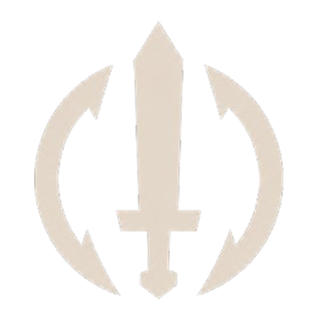
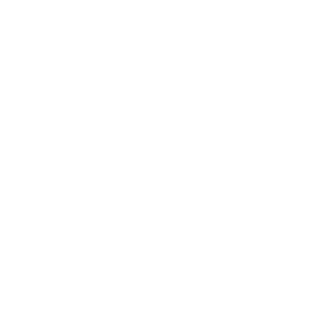
feat(lol): add assist timeline markers

Changed region(s): [[0.3438, 0.0625, 0.625, 0.9375], [0.625, 0.1875, 0.9062, 0.9375], [0.0938, 0.1875, 0.375, 0.9375]]

diff --git a/apps/clipline-app/ui/review-player.js b/apps/clipline-app/ui/review-player.js
@@ -590,6 +590,7 @@ function renderOverviewMarkers() {
 // untouched. Each draws in currentColor so the category tint (--mc) colors it.
 const MARKER_ICONS = {
   ChampionKill: `<svg viewBox="0 0 24 24" fill="none" stroke="currentColor" stroke-width="1.7" stroke-linecap="round" stroke-linejoin="round"><path d="M4.5 4.5 19.5 19.5M19.5 4.5 4.5 19.5"/><path d="M13 16 16 13M8 13 11 16"/><circle cx="19.5" cy="19.5" r="1.15" fill="currentColor" stroke="none"/><circle cx="4.5" cy="19.5" r="1.15" fill="currentColor" stroke="none"/></svg>`,
+  ChampionAssist: `<svg viewBox="0 0 24 24" fill="none" stroke="currentColor" stroke-width="1.8" stroke-linecap="round" stroke-linejoin="round"><path d="M12 5 12 19M5 12 19 12"/></svg>`,
   ChampionDeath: `<svg viewBox="0 0 24 24" fill="none" stroke="currentColor" stroke-width="1.6" stroke-linejoin="round"><path d="M12 3.5C7.6 3.5 5 6.7 5 10.5C5 12.8 6 14.4 7.2 15.5C7.6 15.9 7.8 16.3 7.8 16.8L7.8 18.5A1 1 0 0 0 8.8 19.5L15.2 19.5A1 1 0 0 0 16.2 18.5L16.2 16.8C16.2 16.3 16.4 15.9 16.8 15.5C18 14.4 19 12.8 19 10.5C19 6.7 16.4 3.5 12 3.5Z"/><circle cx="9.4" cy="11" r="1.4" fill="currentColor" stroke="none"/><circle cx="14.6" cy="11" r="1.4" fill="currentColor" stroke="none"/></svg>`,
   FirstBlood: `<svg viewBox="0 0 24 24" fill="none" stroke="currentColor" stroke-width="1.7" stroke-linejoin="round"><path d="M12 3.5C12 3.5 18.5 11 18.5 15.5A6.5 6.5 0 1 1 5.5 15.5C5.5 11 12 3.5 12 3.5Z"/></svg>`,
   Multikill: `<svg viewBox="0 0 24 24" fill="none" stroke="currentColor" stroke-width="1.5" stroke-linejoin="round"><path d="M6 11.5A6 6 0 0 1 18 11.5L18 14.5A1.4 1.4 0 0 1 16.6 15.9L16 15.9 16 18.5 8 18.5 8 15.9 7.4 15.9A1.4 1.4 0 0 1 6 14.5Z"/><circle cx="9.6" cy="12.2" r="1.5" fill="currentColor" stroke="none"/><circle cx="14.4" cy="12.2" r="1.5" fill="currentColor" stroke="none"/></svg>`,
@@ -608,6 +609,7 @@ const MARKER_ICONS = {
 // Unknown / future kinds fall back to a representative glyph for their category.
 const MARKER_ICON_FALLBACK = {
   kill: MARKER_ICONS.ChampionKill,
+  assist: MARKER_ICONS.ChampionAssist,
   spree: MARKER_ICONS.Ace,
   objective: MARKER_ICONS.BaronKill,
   structure: MARKER_ICONS.TurretKilled,
@@ -618,6 +620,7 @@ const MARKER_ICON_FALLBACK = {
 // its category color (--mc); kinds without art fall back to the SVGs above.
 const MARKER_IMAGES = {
   ChampionKill: "assets/markers/kill.png",
+  ChampionAssist: "assets/markers/assist.png",
   ChampionDeath: "assets/markers/death.png",
   DragonKill: "assets/markers/dragon.png",
   BaronKill: "assets/markers/baron.png",

diff --git a/apps/clipline-app/ui/library.js b/apps/clipline-app/ui/library.js
@@ -578,6 +578,7 @@ const CARD_KIND_LABELS = { replay: "Replay", session: "Session", trim: "Trim" };
 // Marker categories → tint var, matching the timeline glyph colors.
 const MARKER_CATEGORY_TICK_VARS = {
   kill: "--mc-kill",
+  assist: "--mc-assist",
   death: "--mc-death",
   spree: "--mc-spree",
   objective: "--mc-objective",
@@ -586,6 +587,7 @@ const MARKER_CATEGORY_TICK_VARS = {
 };
 const MARKER_TICK_VARS = {
   ChampionKill: "--mc-kill", FirstBlood: "--mc-kill",
+  ChampionAssist: "--mc-assist",
   ChampionDeath: "--mc-death",
   Multikill: "--mc-spree", Ace: "--mc-spree",
   DragonKill: "--mc-objective", HeraldKill: "--mc-objective", BaronKill: "--mc-objective",

diff --git a/apps/clipline-app/ui/player-core.js b/apps/clipline-app/ui/player-core.js
@@ -586,6 +586,7 @@ const PlayerCore = (() => {
   // EventKind variant name -> visual category. Unknown kinds degrade to info.
   const DEFAULT_MARKER_KINDS = {
     ChampionKill: "kill",
+    ChampionAssist: "assist",
     ChampionDeath: "death",
     FirstBlood: "kill",
     Multikill: "spree",
@@ -599,6 +600,7 @@ const PlayerCore = (() => {
   };
   const DEFAULT_MARKER_CATEGORIES = {
     kill: { singular: "kill", plural: "kills", glyph: "✕" },
+    assist: { singular: "assist", plural: "assists", glyph: "+" },
     death: { singular: "death", plural: "deaths", glyph: "✕" },
     spree: { singular: "spree", plural: "sprees", glyph: "★" },
     objective: { singular: "objective", plural: "objectives", glyph: "◆" },

diff --git a/apps/clipline-app/ui/styles.css b/apps/clipline-app/ui/styles.css
@@ -17,6 +17,7 @@
   --titlebar-h: 32px;
   /* Marker category tints, shared by the timeline glyphs and the gallery ticks. */
   --mc-kill: #ff9b9e;
+  --mc-assist: #7bdff2;
   --mc-death: #b9a7c4;
   --mc-spree: #ffc77d;
   --mc-objective: #cdb2ff;
@@ -2490,6 +2491,7 @@ label span { white-space: nowrap; }
 
 /* whisper of category color — light glyph + matching hairline, never loud */
 .marker-kill { --mc: #ff9b9e; --hair-top: rgba(255, 97, 102, 0.6); --hair-bot: rgba(255, 97, 102, 0.12); }
+.marker-assist { --mc: #7bdff2; --hair-top: rgba(92, 204, 224, 0.58); --hair-bot: rgba(92, 204, 224, 0.12); }
 .marker-death { --mc: #b9a7c4; --hair-top: rgba(157, 138, 178, 0.55); --hair-bot: rgba(157, 138, 178, 0.12); }
 .marker-spree { --mc: #ffc77d; --hair-top: rgba(255, 174, 77, 0.6); --hair-bot: rgba(255, 174, 77, 0.12); }
 .marker-objective { --mc: #cdb2ff; --hair-top: rgba(189, 147, 255, 0.6); --hair-bot: rgba(189, 147, 255, 0.12); }

diff --git a/crates/clipline-lol/src/normalize.rs b/crates/clipline-lol/src/normalize.rs
@@ -33,26 +33,30 @@ pub fn normalize(raw: &RawEvent, local_player: &str) -> GameEvent {
 
     let local_player_key = player_name_key(local_player);
     let actor_is_local = player_matches_key(&actor, &local_player_key);
-    let local_player_assisted = raw
+    let local_assister = raw
         .assisters
         .iter()
-        .any(|assister| player_matches_key(assister, &local_player_key));
+        .find(|assister| player_matches_key(assister, &local_player_key))
+        .cloned();
+    let local_player_assisted = local_assister.is_some();
     let local_player_was_victim = raw
         .victim_name
         .as_deref()
         .is_some_and(|victim| player_matches_key(victim, &local_player_key));
 
     // The Live Client API only emits ChampionKill for any champion death. We
-    // split it: the local player's own death becomes ChampionDeath so it
-    // earns its own timeline marker (ddoc §5: "mark *their* kills/deaths
-    // distinctly"). Otherwise the kill classification is unchanged.
+    // split local involvement so the review timeline can distinguish the local
+    // player's kills, assists, and deaths.
     let kind = match kind {
         EventKind::ChampionKill if local_player_was_victim => EventKind::ChampionDeath,
+        EventKind::ChampionKill if local_player_assisted && !actor_is_local => {
+            EventKind::ChampionAssist
+        }
         k => k,
     };
 
     let involves_local_player = match kind {
-        EventKind::ChampionDeath => true,
+        EventKind::ChampionAssist | EventKind::ChampionDeath => true,
         EventKind::ChampionKill => actor_is_local,
         _ => actor_is_local || local_player_assisted || local_player_was_victim,
     };
@@ -74,6 +78,10 @@ pub fn normalize(raw: &RawEvent, local_player: &str) -> GameEvent {
             0
         })
     .min(10);
+    let actor = match kind {
+        EventKind::ChampionAssist => local_assister.unwrap_or_else(|| local_player.trim().into()),
+        _ => actor,
+    };
 
     GameEvent {
         game_id: GameId::LeagueOfLegends,
@@ -108,6 +116,7 @@ fn base_importance(kind: EventKind) -> u8 {
         EventKind::Multikill | EventKind::BaronKill => 7,
         EventKind::DragonKill | EventKind::FirstBlood => 6,
         EventKind::ChampionKill
+        | EventKind::ChampionAssist
         | EventKind::ChampionDeath
         | EventKind::InhibKilled
         | EventKind::HeraldKill => 5,
@@ -167,17 +176,19 @@ mod tests {
     }
 
     #[test]
-    fn local_player_as_assister_does_not_count_as_champion_kill() {
+    fn local_player_as_assister_becomes_champion_assist() {
         let r = raw(
             r#"{ "EventID": 2, "EventName": "ChampionKill", "EventTime": 10.0,
                  "KillerName": "A", "VictimName": "Them", "Assisters": ["B"] }"#,
         );
         let ev = normalize(&r, "B");
+        assert_eq!(ev.kind, EventKind::ChampionAssist);
+        assert_eq!(ev.actor, "B");
         assert!(
-            !ev.involves_local_player,
-            "assists are not timeline-worthy champion kills"
+            ev.involves_local_player,
+            "local assists should get timeline-worthy assist markers"
         );
-        assert_eq!(ev.importance, 5);
+        assert_eq!(ev.importance, 7);
     }
 
     #[test]

diff --git a/apps/clipline-app/src/game_plugins.rs b/apps/clipline-app/src/game_plugins.rs
@@ -401,6 +401,9 @@ fn first_party_asset_data_url(path: &str) -> Option<String> {
         "assets/markers/kill.png" => {
             include_bytes!("../plugin-seeds/league_of_legends/assets/markers/kill.png")
         }
+        "assets/markers/assist.png" => {
+            include_bytes!("../plugin-seeds/league_of_legends/assets/markers/assist.png")
+        }
         "assets/markers/death.png" => {
             include_bytes!("../plugin-seeds/league_of_legends/assets/markers/death.png")
         }
@@ -459,6 +462,11 @@ const LEAGUE_PROFILE_MANIFEST_JSON: &str = r#"{
         "icon": "assets/markers/kill.png",
         "rail": { "layout": "duel", "allegiance": "friendly" }
       },
+      "ChampionAssist": {
+        "category": "assist",
+        "icon": "assets/markers/assist.png",
+        "rail": { "layout": "duel", "allegiance": "friendly" }
+      },
       "ChampionDeath": {
         "category": "death",
         "icon": "assets/markers/death.png",
@@ -482,6 +490,7 @@ const LEAGUE_PROFILE_MANIFEST_JSON: &str = r#"{
     },
     "marker_categories": {
       "kill": { "singular": "kill", "plural": "kills", "glyph": "✕" },
+      "assist": { "singular": "assist", "plural": "assists", "glyph": "+" },
       "death": { "singular": "death", "plural": "deaths", "glyph": "✕" },
       "spree": { "singular": "spree", "plural": "sprees", "glyph": "★" },
       "objective": { "singular": "objective", "plural": "objectives", "glyph": "◆" },
@@ -531,6 +540,7 @@ const LEAGUE_PROFILE_MANIFEST_JSON: &str = r#"{
       "layout": "kill_feed",
       "icons": {
         "ChampionKill": "assets/event-rail/kill.png",
+        "ChampionAssist": "assets/markers/assist.png",
         "ChampionDeath": "assets/event-rail/death.png",
         "DragonKill": "assets/event-rail/dragon.png",
         "BaronKill": "assets/event-rail/baron.png",
@@ -705,6 +715,14 @@ mod tests {
         );
         assert!(presentation
             .pointer("/marker_kinds/ChampionKill/icon")
+            .and_then(serde_json::Value::as_str)
+            .is_some_and(|icon| icon.starts_with("data:image/png;base64,")));
+        assert!(presentation
+            .pointer("/marker_kinds/ChampionAssist/icon")
+            .and_then(serde_json::Value::as_str)
+            .is_some_and(|icon| icon.starts_with("data:image/png;base64,")));
+        assert!(presentation
+            .pointer("/event_rail/icons/ChampionKill")
             .and_then(serde_json::Value::as_str)
             .is_some_and(|icon| icon.starts_with("data:image/png;base64,")));
         assert!(presentation

diff --git a/apps/clipline-app/tests/player_core.rs b/apps/clipline-app/tests/player_core.rs
@@ -934,6 +934,10 @@ fn marker_styles_map_kinds_to_categories() {
         r#"{"glyph":"✕","cls":"death"}"#
     );
     assert_eq!(
+        eval_json(&mut ctx, "PlayerCore.markerStyle('ChampionAssist')"),
+        r#"{"glyph":"+","cls":"assist"}"#
+    );
+    assert_eq!(
         eval_json(&mut ctx, "PlayerCore.markerStyle('FirstBlood')"),
         r#"{"glyph":"✕","cls":"kill"}"#
     );
@@ -988,9 +992,9 @@ fn marker_styles_accept_injected_plugin_presentation() {
     assert_eq!(
         eval(
             &mut ctx,
-            "PlayerCore.markerDigest([{ kind: 'ChampionKill' }, { kind: 'ChampionKill' }, { kind: 'DragonKill' }], P)"
+            "PlayerCore.markerDigest([{ kind: 'ChampionKill' }, { kind: 'ChampionKill' }, { kind: 'DragonKill' }, { kind: 'ChampionAssist' }], P)"
         ),
-        "2 hero plays · 1 map objective"
+        "2 hero plays · 1 map objective · 1 assist"
     );
 }
 

diff --git a/crates/clipline-events/src/schema.rs b/crates/clipline-events/src/schema.rs
@@ -20,6 +20,7 @@ pub enum EventKind {
     HeraldKill,
     BaronKill,
     ChampionKill,
+    ChampionAssist,
     ChampionDeath,
     Multikill,
     Ace,
@@ -54,7 +55,7 @@ pub struct GameEvent {
 /// reviewing a match, not every event the game API reports.
 pub fn is_timeline_marker(event: &GameEvent) -> bool {
     match event.kind {
-        EventKind::ChampionKill => event.involves_local_player,
+        EventKind::ChampionKill | EventKind::ChampionAssist => event.involves_local_player,
         EventKind::ChampionDeath => true,
         EventKind::TurretKilled | EventKind::DragonKill | EventKind::BaronKill => true,
         _ => false,
@@ -103,6 +104,7 @@ mod tests {
     fn timeline_policy_keeps_only_review_worthy_markers() {
         assert!(is_timeline_marker(&ev(EventKind::ChampionKill, true)));
         assert!(!is_timeline_marker(&ev(EventKind::ChampionKill, false)));
+        assert!(is_timeline_marker(&ev(EventKind::ChampionAssist, true)));
         assert!(is_timeline_marker(&ev(EventKind::ChampionDeath, false)));
         assert!(is_timeline_marker(&ev(EventKind::TurretKilled, false)));
         assert!(is_timeline_marker(&ev(EventKind::DragonKill, false)));

diff --git a/apps/clipline-app/tests/ui_contract.rs b/apps/clipline-app/tests/ui_contract.rs
@@ -1524,6 +1524,7 @@ fn timeline_marker_pngs_have_matching_alpha_height() {
         "plugin-seeds/league_of_legends/assets/markers",
     ];
     let marker_names = [
+        "assist.png",
         "baron.png",
         "death.png",
         "dragon.png",

diff --git a/apps/clipline-app/plugin-seeds/league_of_legends/assets/markers/README.md b/apps/clipline-app/plugin-seeds/league_of_legends/assets/markers/README.md
@@ -1,9 +1,9 @@
 # Timeline marker icons
 
-`kill.png`, `death.png`, `dragon.png`, `baron.png`, and `turret.png` are
-**AI-generated** silhouette icons created for Clipline's review-timeline
-markers. They were not extracted, traced, or copied from any game's assets,
-and no third-party copyright is claimed over them.
+`kill.png`, `death.png`, `assist.png`, `dragon.png`, `baron.png`, and
+`turret.png` are first-party silhouette icons created or provided for
+Clipline's review-timeline markers. They were not extracted, traced, or copied
+from any game's assets, and no third-party copyright is claimed over them.
 
 As first-party project assets they are covered by Clipline's own license
 (**MIT OR Apache-2.0**); they are not third-party material, so they are not

diff --git a/apps/clipline-app/ui/assets/markers/README.md b/apps/clipline-app/ui/assets/markers/README.md
@@ -1,9 +1,9 @@
 # Timeline marker icons
 
-`kill.png`, `death.png`, `dragon.png`, `baron.png`, and `turret.png` are
-**AI-generated** silhouette icons created for Clipline's review-timeline
-markers. They were not extracted, traced, or copied from any game's assets,
-and no third-party copyright is claimed over them.
+`kill.png`, `death.png`, `assist.png`, `dragon.png`, `baron.png`, and
+`turret.png` are first-party silhouette icons created or provided for
+Clipline's review-timeline markers. They were not extracted, traced, or copied
+from any game's assets, and no third-party copyright is claimed over them.
 
 As first-party project assets they are covered by Clipline's own license
 (**MIT OR Apache-2.0**); they are not third-party material, so they are not

diff --git a/handoff.md b/handoff.md
@@ -307,6 +307,9 @@ completed task-by-task with strict TDD; read any of them to see the conventions 
 > clips, likely after finishing a clearer labeling model.
 
 Recent fixes (2026-06-30):
+- League local-player assists now normalize as `ChampionAssist`, survive the timeline-marker
+  filter, and render with the new assist icon/category; the refreshed sword kill icon is used by
+  both timeline markers and the right-side match events rail.
 - Nightly 0.1.24 is a hotfix for the review timeline action row and League minion turret-kill
   presentation. The previous public nightly metadata was 0.1.23, so the app and Tauri package
   versions were bumped to 0.1.24 for updater eligibility.